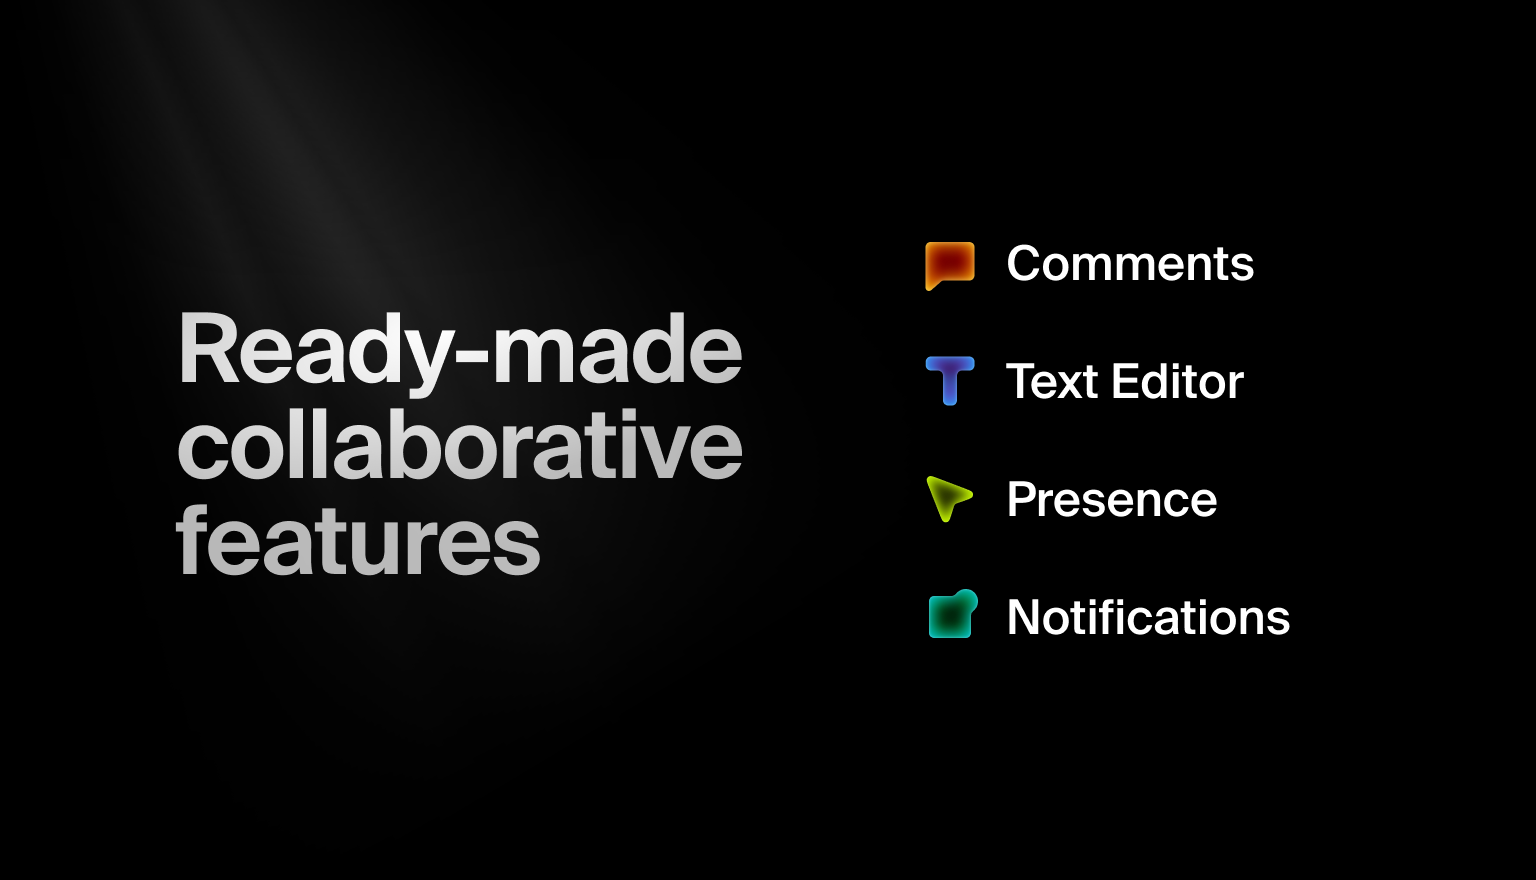
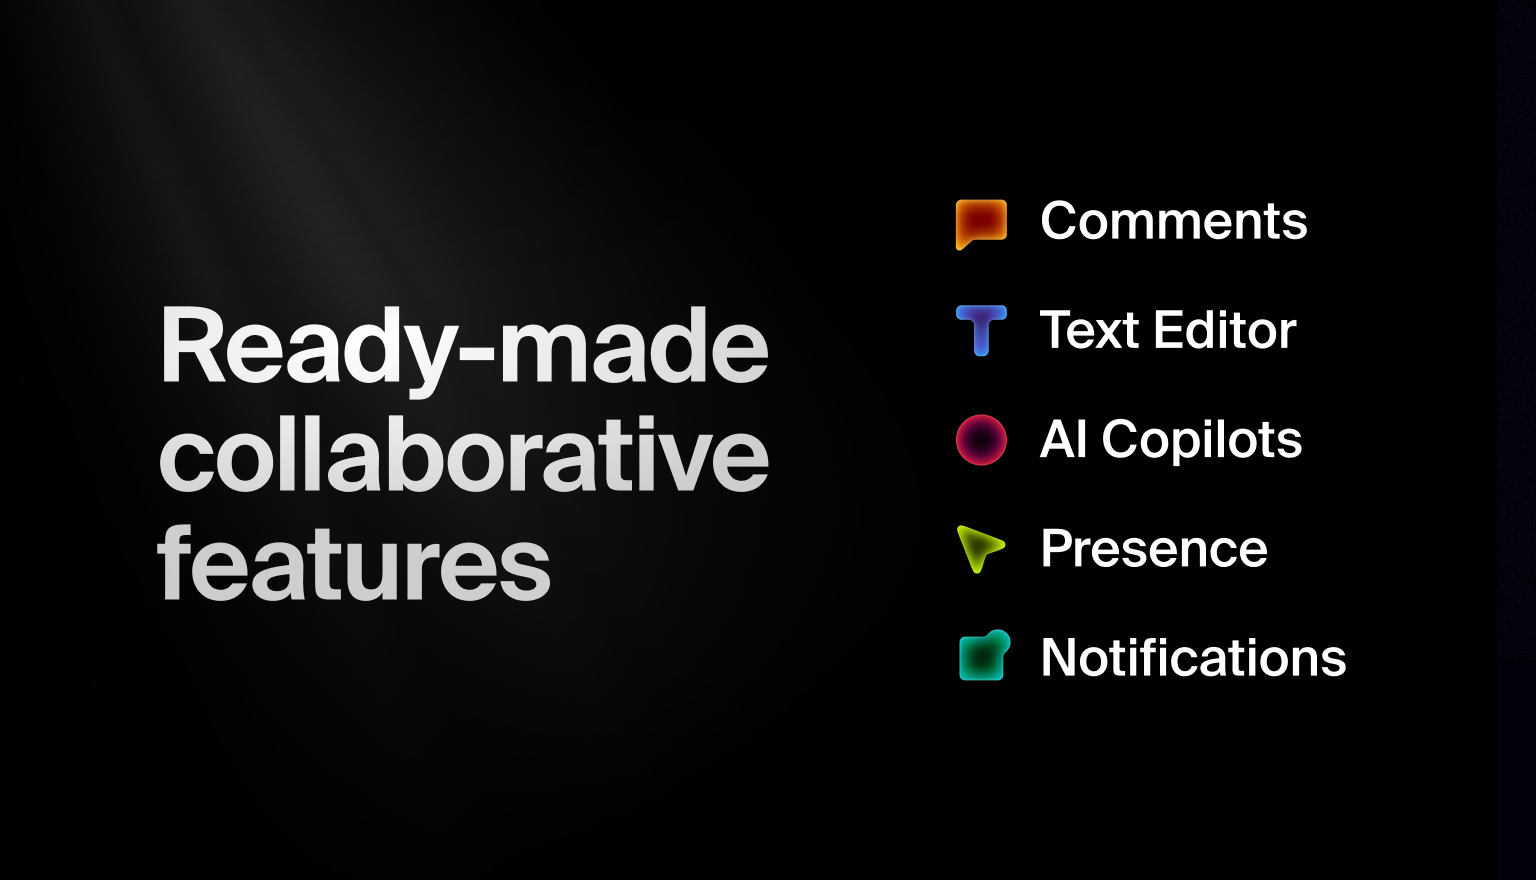
Docs: jan updates (#2127)

Changed region(s): [[0.0938, 0.3375, 0.5, 0.7057], [0.5938, 0.2148, 0.875, 0.6443], [0.5938, 0.675, 0.875, 0.7977]]

diff --git a/README.md b/README.md
@@ -35,9 +35,10 @@ Liveblocks provides ready‑to‑use features through customizable pre‑built
 components that can easily be dropped into your product to boost growth:
 [Comments](/docs/ready-made-features/comments),
 [Text Editor](/docs/ready-made-features/text-editor),
+[AI Copilots](/docs/ready-made-features/ai-copilots),
 [Presence](/docs/ready-made-features/presence), and
 [Notifications](/docs/ready-made-features/notifications). You can decide
-features you want to use based on your requirements and collaborative
+features which you want to use based on your requirements and the collaborative
 experiences you’re looking to add.
 
 If you have more advanced needs, you can also leverage Liveblocks to
